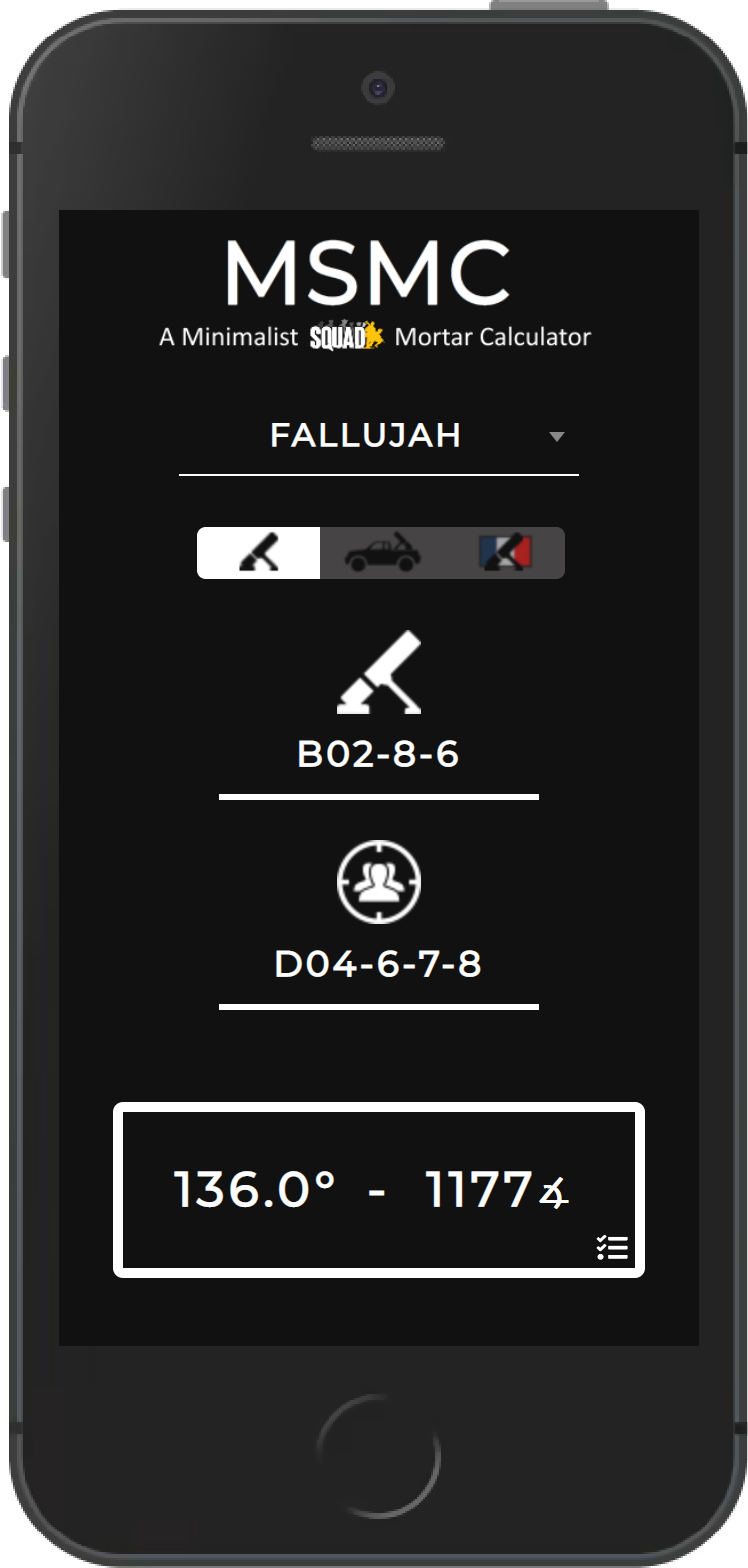
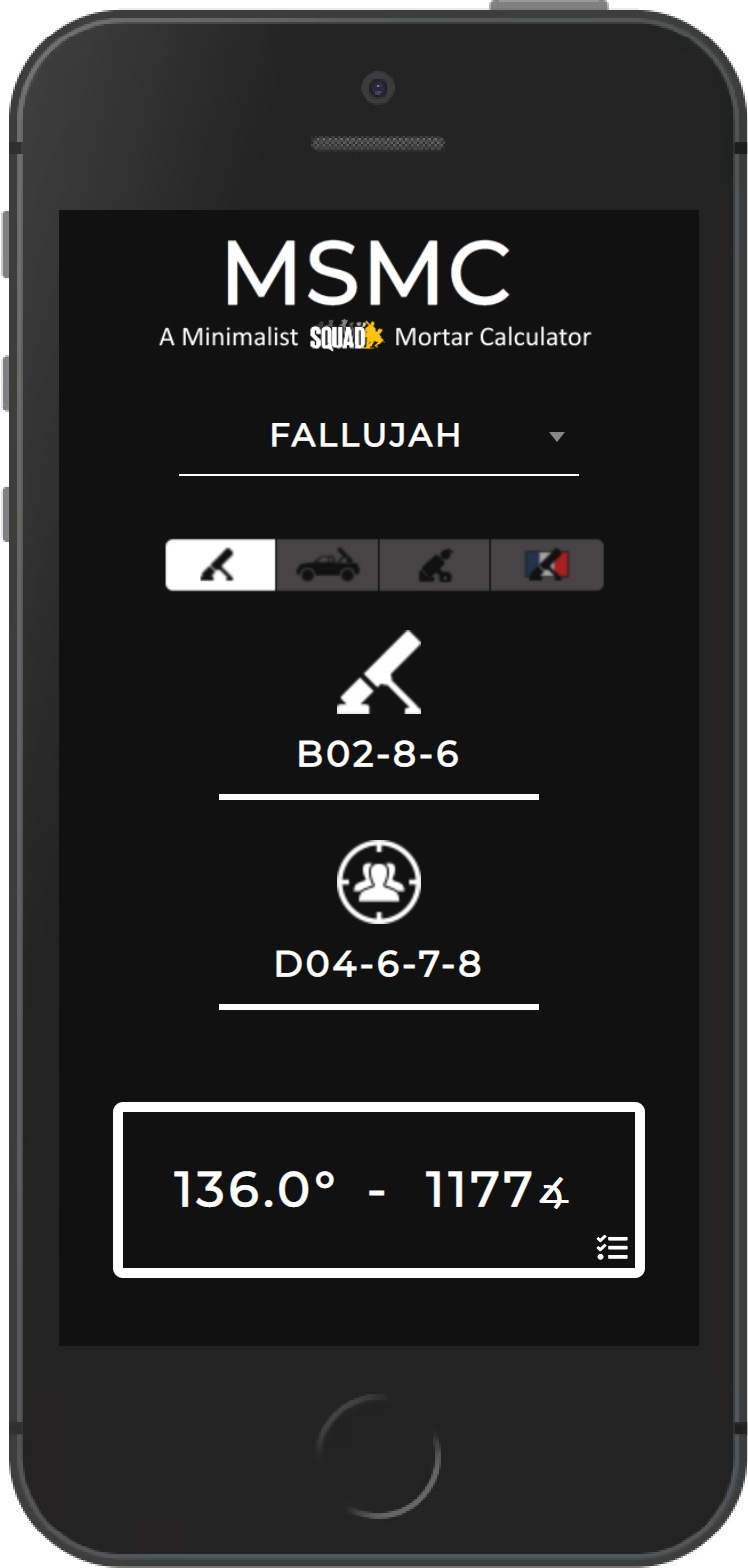
120mm fix

Changed region(s): [[0.2152, 0.3125, 0.8302, 0.375]]

diff --git a/src/js/utils.js b/src/js/utils.js
@@ -263,13 +263,10 @@ function getHeight(a, b) {
  */
 function getVelocity(distance) {
 
-    if ($("#radio-one").is(':checked')) {
-        return ClassicMortar.getVelocity();
-    } else if ($("#radio-two").is(':checked')) {
-        return TechnicalMortar.getVelocity(distance);
-    } else if ($("#radio-three").is(':checked')) {
-        return HellMortar.getVelocity(distance);
-    } else {
+    if ($("#radio-one").is(':checked')) { return ClassicMortar.getVelocity(); }
+    if ($("#radio-two").is(':checked')) { return TechnicalMortar.getVelocity(distance); }
+    if ($("#radio-three").is(':checked')) { return HellMortar.getVelocity(distance); } else {
+
         if ($("#radio-five").is(':checked')) {
             setFrenchSelection(0);
             return MO120_SMortar.getVelocity();
@@ -280,6 +277,7 @@ function getVelocity(distance) {
             setFrenchSelection(2);
             return MO120_LMortar.getVelocity();
         } else {
+
             if (frenchSelection === 0) {
                 return MO120_SMortar.getVelocity();
             } else if (frenchSelection === 1) {
@@ -308,6 +306,7 @@ export function shoot() {
     const TARGET_LOC = $("#target-location");
     var a = MORTAR_LOC.val();
     var b = TARGET_LOC.val();
+
 
 
     // First, reset any errors

diff --git a/webpack.dev.js b/webpack.dev.js
@@ -1,6 +1,7 @@
 const { merge } = require('webpack-merge');
 const common = require('./webpack.common.js');
 const HtmlWebpackPlugin = require('html-webpack-plugin');
+const BundleAnalyzerPlugin = require('webpack-bundle-analyzer').BundleAnalyzerPlugin;
 
 module.exports = merge(common, {
     mode: 'development',
@@ -15,5 +16,6 @@ module.exports = merge(common, {
         new HtmlWebpackPlugin({
             template: './src/index.html',
         }),
+        //new BundleAnalyzerPlugin()
     ]
 });

diff --git a/src/js/tooltips.js b/src/js/tooltips.js
@@ -36,9 +36,9 @@ tippy('#french', {
     theme: 'french',
     trigger: 'click',
     onHide() {
-        if ($("#radio-four").is(':checked')) {
+        if ($("#radio-five").is(':checked')) {
             setFrenchSelection(0);
-        } else if ($("#radio-five").is(':checked')) {
+        } else if ($("#radio-six").is(':checked')) {
             setFrenchSelection(1);
         } else {
             setFrenchSelection(2);

diff --git a/src/js/weapon.js b/src/js/weapon.js
@@ -15,6 +15,7 @@ export class Weapon {
                     return TECHNICALS[i - 1][1] + ((distance - TECHNICALS[i - 1][0]) / (TECHNICALS[i][0] - TECHNICALS[i - 1][0])) * (TECHNICALS[i][1] - TECHNICALS[i - 1][1]);
                 }
             }
+
         }
 
         if (this.name === "Hell") {
